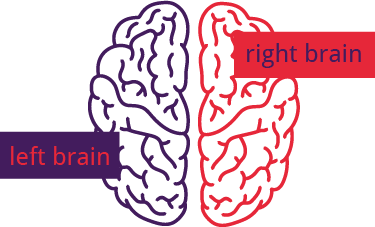
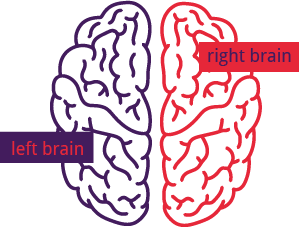
testing box shadows on buttons and projects

diff --git a/app/js/jquery.waypoints.min.js b/app/js/jquery.waypoints.min.js
@@ -1,0 +1,7 @@
+/*!
+Waypoints - 4.0.1
+Copyright © 2011-2016 Caleb Troughton
+Licensed under the MIT license.
+https://github.com/imakewebthings/waypoints/blob/master/licenses.txt
+*/
+!function(){"use strict";function t(o){if(!o)throw new Error("No options passed to Waypoint constructor");if(!o.element)throw new Error("No element option passed to Waypoint constructor");if(!o.handler)throw new Error("No handler option passed to Waypoint constructor");this.key="waypoint-"+e,this.options=t.Adapter.extend({},t.defaults,o),this.element=this.options.element,this.adapter=new t.Adapter(this.element),this.callback=o.handler,this.axis=this.options.horizontal?"horizontal":"vertical",this.enabled=this.options.enabled,this.triggerPoint=null,this.group=t.Group.findOrCreate({name:this.options.group,axis:this.axis}),this.context=t.Context.findOrCreateByElement(this.options.context),t.offsetAliases[this.options.offset]&&(this.options.offset=t.offsetAliases[this.options.offset]),this.group.add(this),this.context.add(this),i[this.key]=this,e+=1}var e=0,i={};t.prototype.queueTrigger=function(t){this.group.queueTrigger(this,t)},t.prototype.trigger=function(t){this.enabled&&this.callback&&this.callback.apply(this,t)},t.prototype.destroy=function(){this.context.remove(this),this.group.remove(this),delete i[this.key]},t.prototype.disable=function(){return this.enabled=!1,this},t.prototype.enable=function(){return this.context.refresh(),this.enabled=!0,this},t.prototype.next=function(){return this.group.next(this)},t.prototype.previous=function(){return this.group.previous(this)},t.invokeAll=function(t){var e=[];for(var o in i)e.push(i[o]);for(var n=0,r=e.length;r>n;n++)e[n][t]()},t.destroyAll=function(){t.invokeAll("destroy")},t.disableAll=function(){t.invokeAll("disable")},t.enableAll=function(){t.Context.refreshAll();for(var e in i)i[e].enabled=!0;return this},t.refreshAll=function(){t.Context.refreshAll()},t.viewportHeight=function(){return window.innerHeight||document.documentElement.clientHeight},t.viewportWidth=function(){return document.documentElement.clientWidth},t.adapters=[],t.defaults={context:window,continuous:!0,enabled:!0,group:"default",horizontal:!1,offset:0},t.offsetAliases={"bottom-in-view":function(){return this.context.innerHeight()-this.adapter.outerHeight()},"right-in-view":function(){return this.context.innerWidth()-this.adapter.outerWidth()}},window.Waypoint=t}(),function(){"use strict";function t(t){window.setTimeout(t,1e3/60)}function e(t){this.element=t,this.Adapter=n.Adapter,this.adapter=new this.Adapter(t),this.key="waypoint-context-"+i,this.didScroll=!1,this.didResize=!1,this.oldScroll={x:this.adapter.scrollLeft(),y:this.adapter.scrollTop()},this.waypoints={vertical:{},horizontal:{}},t.waypointContextKey=this.key,o[t.waypointContextKey]=this,i+=1,n.windowContext||(n.windowContext=!0,n.windowContext=new e(window)),this.createThrottledScrollHandler(),this.createThrottledResizeHandler()}var i=0,o={},n=window.Waypoint,r=window.onload;e.prototype.add=function(t){var e=t.options.horizontal?"horizontal":"vertical";this.waypoints[e][t.key]=t,this.refresh()},e.prototype.checkEmpty=function(){var t=this.Adapter.isEmptyObject(this.waypoints.horizontal),e=this.Adapter.isEmptyObject(this.waypoints.vertical),i=this.element==this.element.window;t&&e&&!i&&(this.adapter.off(".waypoints"),delete o[this.key])},e.prototype.createThrottledResizeHandler=function(){function t(){e.handleResize(),e.didResize=!1}var e=this;this.adapter.on("resize.waypoints",function(){e.didResize||(e.didResize=!0,n.requestAnimationFrame(t))})},e.prototype.createThrottledScrollHandler=function(){function t(){e.handleScroll(),e.didScroll=!1}var e=this;this.adapter.on("scroll.waypoints",function(){(!e.didScroll||n.isTouch)&&(e.didScroll=!0,n.requestAnimationFrame(t))})},e.prototype.handleResize=function(){n.Context.refreshAll()},e.prototype.handleScroll=function(){var t={},e={horizontal:{newScroll:this.adapter.scrollLeft(),oldScroll:this.oldScroll.x,forward:"right",backward:"left"},vertical:{newScroll:this.adapter.scrollTop(),oldScroll:this.oldScroll.y,forward:"down",backward:"up"}};for(var i in e){var o=e[i],n=o.newScroll>o.oldScroll,r=n?o.forward:o.backward;for(var s in this.waypoints[i]){var a=this.waypoints[i][s];if(null!==a.triggerPoint){var l=o.oldScroll<a.triggerPoint,h=o.newScroll>=a.triggerPoint,p=l&&h,u=!l&&!h;(p||u)&&(a.queueTrigger(r),t[a.group.id]=a.group)}}}for(var c in t)t[c].flushTriggers();this.oldScroll={x:e.horizontal.newScroll,y:e.vertical.newScroll}},e.prototype.innerHeight=function(){return this.element==this.element.window?n.viewportHeight():this.adapter.innerHeight()},e.prototype.remove=function(t){delete this.waypoints[t.axis][t.key],this.checkEmpty()},e.prototype.innerWidth=function(){return this.element==this.element.window?n.viewportWidth():this.adapter.innerWidth()},e.prototype.destroy=function(){var t=[];for(var e in this.waypoints)for(var i in this.waypoints[e])t.push(this.waypoints[e][i]);for(var o=0,n=t.length;n>o;o++)t[o].destroy()},e.prototype.refresh=function(){var t,e=this.element==this.element.window,i=e?void 0:this.adapter.offset(),o={};this.handleScroll(),t={horizontal:{contextOffset:e?0:i.left,contextScroll:e?0:this.oldScroll.x,contextDimension:this.innerWidth(),oldScroll:this.oldScroll.x,forward:"right",backward:"left",offsetProp:"left"},vertical:{contextOffset:e?0:i.top,contextScroll:e?0:this.oldScroll.y,contextDimension:this.innerHeight(),oldScroll:this.oldScroll.y,forward:"down",backward:"up",offsetProp:"top"}};for(var r in t){var s=t[r];for(var a in this.waypoints[r]){var l,h,p,u,c,d=this.waypoints[r][a],f=d.options.offset,w=d.triggerPoint,y=0,g=null==w;d.element!==d.element.window&&(y=d.adapter.offset()[s.offsetProp]),"function"==typeof f?f=f.apply(d):"string"==typeof f&&(f=parseFloat(f),d.options.offset.indexOf("%")>-1&&(f=Math.ceil(s.contextDimension*f/100))),l=s.contextScroll-s.contextOffset,d.triggerPoint=Math.floor(y+l-f),h=w<s.oldScroll,p=d.triggerPoint>=s.oldScroll,u=h&&p,c=!h&&!p,!g&&u?(d.queueTrigger(s.backward),o[d.group.id]=d.group):!g&&c?(d.queueTrigger(s.forward),o[d.group.id]=d.group):g&&s.oldScroll>=d.triggerPoint&&(d.queueTrigger(s.forward),o[d.group.id]=d.group)}}return n.requestAnimationFrame(function(){for(var t in o)o[t].flushTriggers()}),this},e.findOrCreateByElement=function(t){return e.findByElement(t)||new e(t)},e.refreshAll=function(){for(var t in o)o[t].refresh()},e.findByElement=function(t){return o[t.waypointContextKey]},window.onload=function(){r&&r(),e.refreshAll()},n.requestAnimationFrame=function(e){var i=window.requestAnimationFrame||window.mozRequestAnimationFrame||window.webkitRequestAnimationFrame||t;i.call(window,e)},n.Context=e}(),function(){"use strict";function t(t,e){return t.triggerPoint-e.triggerPoint}function e(t,e){return e.triggerPoint-t.triggerPoint}function i(t){this.name=t.name,this.axis=t.axis,this.id=this.name+"-"+this.axis,this.waypoints=[],this.clearTriggerQueues(),o[this.axis][this.name]=this}var o={vertical:{},horizontal:{}},n=window.Waypoint;i.prototype.add=function(t){this.waypoints.push(t)},i.prototype.clearTriggerQueues=function(){this.triggerQueues={up:[],down:[],left:[],right:[]}},i.prototype.flushTriggers=function(){for(var i in this.triggerQueues){var o=this.triggerQueues[i],n="up"===i||"left"===i;o.sort(n?e:t);for(var r=0,s=o.length;s>r;r+=1){var a=o[r];(a.options.continuous||r===o.length-1)&&a.trigger([i])}}this.clearTriggerQueues()},i.prototype.next=function(e){this.waypoints.sort(t);var i=n.Adapter.inArray(e,this.waypoints),o=i===this.waypoints.length-1;return o?null:this.waypoints[i+1]},i.prototype.previous=function(e){this.waypoints.sort(t);var i=n.Adapter.inArray(e,this.waypoints);return i?this.waypoints[i-1]:null},i.prototype.queueTrigger=function(t,e){this.triggerQueues[e].push(t)},i.prototype.remove=function(t){var e=n.Adapter.inArray(t,this.waypoints);e>-1&&this.waypoints.splice(e,1)},i.prototype.first=function(){return this.waypoints[0]},i.prototype.last=function(){return this.waypoints[this.waypoints.length-1]},i.findOrCreate=function(t){return o[t.axis][t.name]||new i(t)},n.Group=i}(),function(){"use strict";function t(t){this.$element=e(t)}var e=window.jQuery,i=window.Waypoint;e.each(["innerHeight","innerWidth","off","offset","on","outerHeight","outerWidth","scrollLeft","scrollTop"],function(e,i){t.prototype[i]=function(){var t=Array.prototype.slice.call(arguments);return this.$element[i].apply(this.$element,t)}}),e.each(["extend","inArray","isEmptyObject"],function(i,o){t[o]=e[o]}),i.adapters.push({name:"jquery",Adapter:t}),i.Adapter=t}(),function(){"use strict";function t(t){return function(){var i=[],o=arguments[0];return t.isFunction(arguments[0])&&(o=t.extend({},arguments[1]),o.handler=arguments[0]),this.each(function(){var n=t.extend({},o,{element:this});"string"==typeof n.context&&(n.context=t(this).closest(n.context)[0]),i.push(new e(n))}),i}}var e=window.Waypoint;window.jQuery&&(window.jQuery.fn.waypoint=t(window.jQuery)),window.Zepto&&(window.Zepto.fn.waypoint=t(window.Zepto))}();

diff --git a/app/css/main.css b/app/css/main.css
@@ -340,7 +340,7 @@ a.navbar-brand img {
   background-color: #ACB1D4;
 }
 .about-brain .row{
-  width: 85%;
+  width: 75%;
   position: relative;
   margin-left: auto;
   margin-right: auto;
@@ -348,7 +348,10 @@ a.navbar-brand img {
   padding-bottom: 20px;
 }
 #brain {
-  max-width: 100%;
+  max-width: 70%;
+  display: block;
+  position: relative;
+  margin: 0 auto;
 }
 @media screen and (max-width: 559px) {
   #brain {
@@ -403,6 +406,7 @@ a.navbar-brand img {
   -webkit-transition: 0.5s;
   transition: 0.5s;
   border-radius: 4px;
+  box-shadow: inset 0 -4px 1px -1px #9c9c02;
 }
 
 #resume-button:hover {
@@ -461,6 +465,7 @@ img#fromdesign {
   background-color: #ffffff;
   padding: 20px 20px;
   margin-bottom: 40px;
+  box-shadow: 0 1px 6px 0 rgba(0, 0, 0, 0.2), 0 1px 15px 0 rgba(0, 0, 0, 0.19);
 }
 .project {
   margin-top: 15px;
@@ -504,6 +509,7 @@ img#fromdesign {
   padding: 4px 15px;
   border: none;
   border-radius: 4px;
+  box-shadow: inset 0 -4px 1px -1px #b80213;
 }
 .design:hover {
   background-color: #f2faff;
@@ -519,6 +525,7 @@ img#fromdesign {
   padding: 4px 15px;
   border: none;
   border-radius: 4px;
+  box-shadow: inset 0 -4px 1px -1px #9fadb3;
 }
 .github:hover {
   background-color: #000000;

diff --git a/app/partials/home.html b/app/partials/home.html
@@ -66,6 +66,7 @@ provide users with important information about reactions</p>
             <div class="project-button">
               <button class="design" href="">Design Process</button>
               <button class="github" href="">Github</button>
+              <!-- <button class="github" id="waypoint">waypoint test</button> -->
             </div>
           </div>
         </div>

diff --git a/app/index.html b/app/index.html
@@ -44,8 +44,8 @@
 <script src="//ajax.googleapis.com/ajax/libs/angularjs/1.2.18/angular-route.min.js"></script>
 
 <!-- Our Website Javascripts -->
+<script src="js/jquery.waypoints.min.js"></script>
 <script src="js/main.js"></script>
-
 <script src="js/scripts.js"></script>
 
 

diff --git a/app/js/scripts.js b/app/js/scripts.js
@@ -1,1 +1,2 @@
-$('body').scrollspy({ target: '#navbar' });
+var waypt = $('#waypoint');
+waypt.css('background-color', 'blue');
